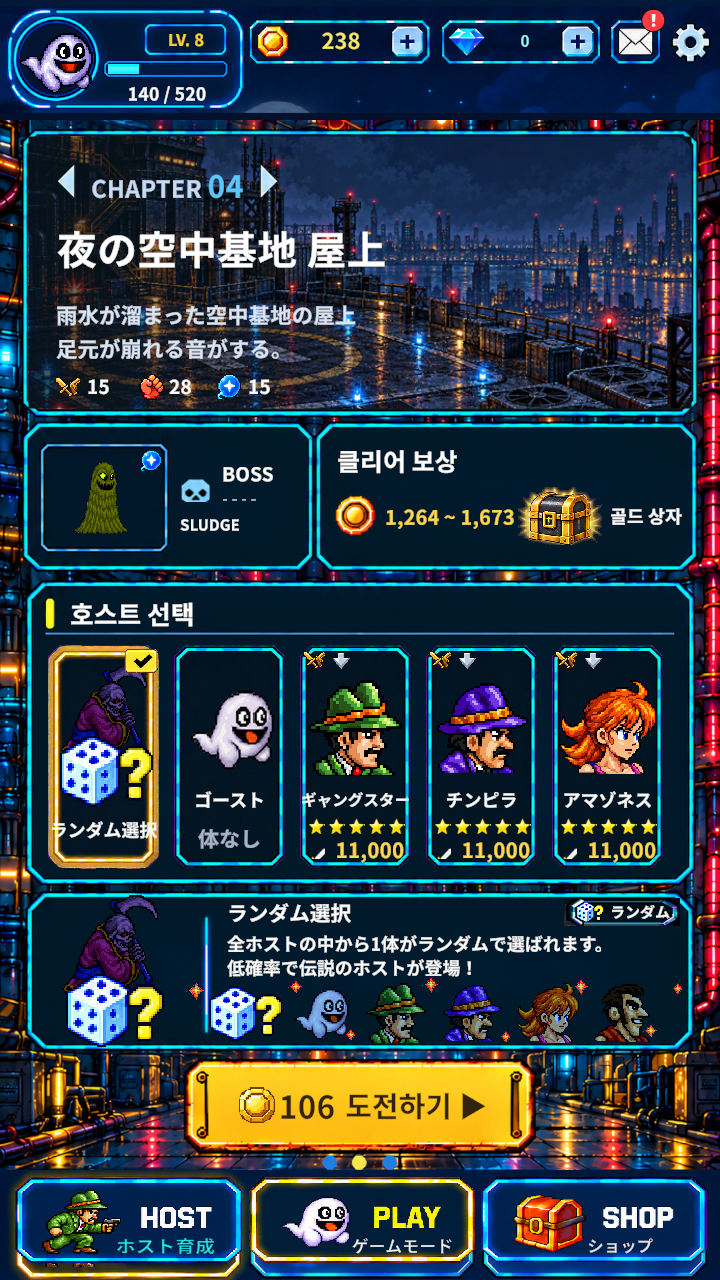
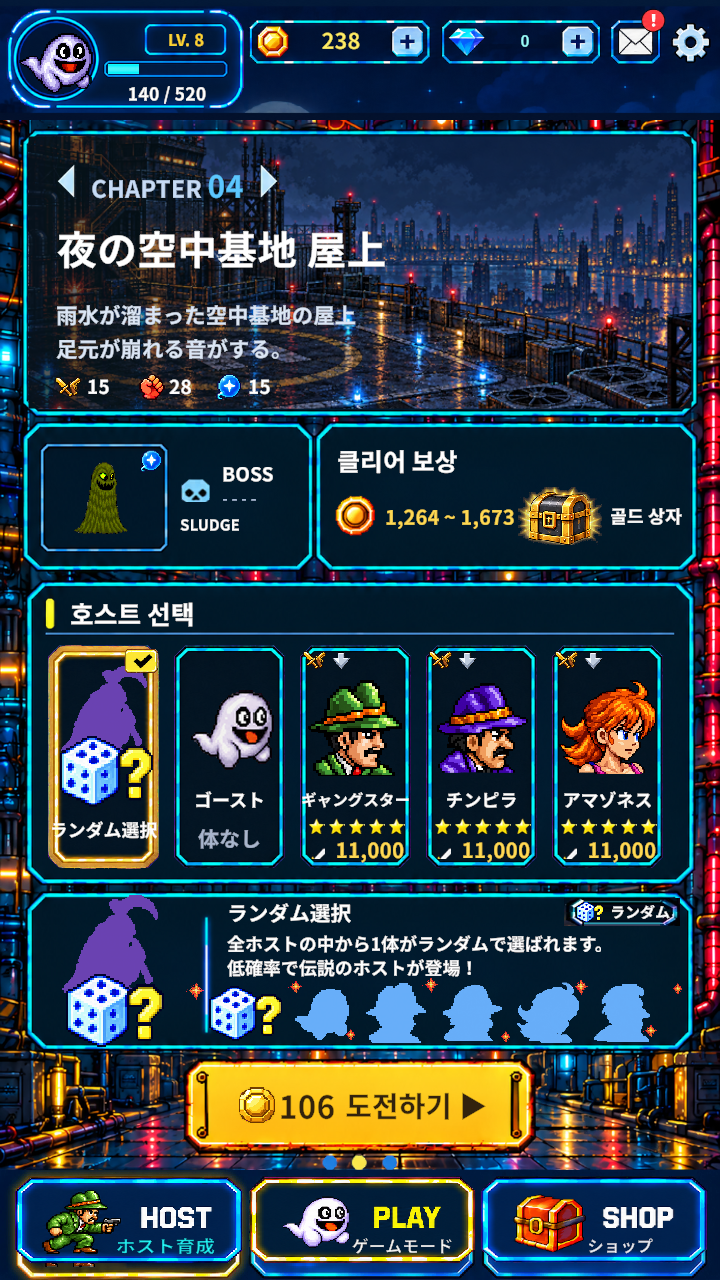
호스트 선택 — 가린 사신 · 실루엣 줄을 단색 실루엣으로(UI/Silhouette 재질, PD 2026-10-12 「음영을 깔지 말고 실루엣으로」)
색만 곱하면 안쪽 그림이 그대로 남았다 — 모양(알파)만 쓰고 색을 통째로 칠한다.
몸을 고르면 같은 칸이 원래 초상으로 돌아온다(재질을 그때 바꾼다).

diff --git a/Assets/Scripts/Editor/ChapterHostInfoBinder.cs b/Assets/Scripts/Editor/ChapterHostInfoBinder.cs
@@ -25,6 +25,19 @@ namespace Game.Editor
         // 카드 · 육성 화면과 같은 흉상(원작 그림). 작은 아이콘(64px)은 키우면 뭉개져 실루엣이 안 읽혔다
         private const string DeathPortrait = Portraits + "/portrait_death.png";
         private const string AdditiveMat = "Assets/BaseResource/Shaders/UIAdditiveSprite.mat";
+        private const string SilhouetteMat = "Assets/BaseResource/Shaders/UISilhouette.mat";
+
+        /// <summary>`UI/Silhouette` 재질 — 없으면 만든다. 그림의 모양만 쓰고 색은 Image.color 로 칠한다.</summary>
+        private static Material Silhouette()
+        {
+            var m = AssetDatabase.LoadAssetAtPath<Material>(SilhouetteMat);
+            if (m != null) return m;
+            var sh = Shader.Find("UI/Silhouette");
+            if (sh == null) { Debug.LogError("[챕터·호스트 설명] UI/Silhouette 셰이더 없음"); return null; }
+            m = new Material(sh) { name = "UISilhouette" };
+            AssetDatabase.CreateAsset(m, SilhouetteMat);
+            return m;
+        }
 
         [MenuItem("Tools/Game/챕터·호스트 — 「?」 카드 · 고른 카드 설명 칸 꽂기")]
         public static void Run()
@@ -124,13 +137,16 @@ namespace Game.Editor
             dice.preserveAspect = true;
             Local(dice.rectTransform, -200, 0, 78, 58);
 
-            var tint = new Color(0.55f, 0.78f, 1f, 0.95f);   // 푸른 빛 실루엣 — 원작 흉상에 색만 입힌다
+            // 푸른 단색 실루엣 — 원작 흉상의 모양만(음영 없이). 색만 곱하면 안쪽 그림이 그대로 남았다(PD 2026-10-12)
+            var tint = new Color(0.42f, 0.70f, 1f, 0.95f);
+            var sil = Silhouette();
             for (int i = 0; i < StripHosts.Length; i++)
             {
                 // 카드에 쓰는 흉상과 같은 그림(판의 _hostArts) — portrait_* 은 전신이라 작게 줄 서 보였다
                 var face = Img(strip, $"StripHost{i}", ThumbOf(panel, StripHosts[i]));
                 face.preserveAspect = true;
                 face.color = tint;
+                face.material = sil;
                 Local(face.rectTransform, -125 + i * 76, 0, 68, 64);
             }
             var stars = new (float x, float y, float s)[]
@@ -212,6 +228,7 @@ namespace Game.Editor
             if (comp == null) return;
             var so = new SerializedObject(comp);
             so.FindProperty("_randomDeath").objectReferenceValue = Spr(DeathPortrait);
+            so.FindProperty("_silhouette").objectReferenceValue = Silhouette();
             var arts = so.FindProperty("_hostArts");
             for (int i = 0; i < arts.arraySize; i++)
             {

diff --git a/Assets/Scripts/Module/Lobby/ChapterHostPanel.cs b/Assets/Scripts/Module/Lobby/ChapterHostPanel.cs
@@ -69,8 +69,14 @@ namespace Game.Module.Lobby
         /// </summary>
         [SerializeField] private Sprite _randomDeath;
 
-        /// <summary>가린 사신 색 — 어두운 남보라. 모양만 읽히고 정체는 안 보인다(「낮은 확률로 전설 등장」 암시).</summary>
-        private static readonly Color SilhouetteTint = new(0.40f, 0.30f, 0.62f, 1f);
+        /// <summary>
+        /// 실루엣 재질(`UI/Silhouette` — 그림의 모양만 쓰고 색은 통째로 갈아끼운다).
+        /// ⚠ 색만 곱하면(`Image.color`) 안쪽 음영이 그대로 남는다 — PD 2026-10-12 「음영을 깔지 말고 실루엣으로」.
+        /// </summary>
+        [SerializeField] private Material _silhouette;
+
+        /// <summary>가린 사신 실루엣 색 — 보라. 모양만 읽히고 정체는 안 보인다(「낮은 확률로 전설 등장」 암시).</summary>
+        private static readonly Color SilhouetteTint = new(0.42f, 0.26f, 0.70f, 1f);
 
         // 상성 시험판(2026-10-02) — 무기 · 파워 · 마법 아이콘(이 순서), 유리 ▲ · 불리 ▼
         [SerializeField] private Sprite[] _kindGems = Array.Empty<Sprite>();
@@ -609,6 +615,7 @@ namespace Game.Module.Lobby
             {
                 thumb.sprite = _randomDeath;
                 thumb.color = SilhouetteTint;
+                thumb.material = _silhouette;
                 thumb.enabled = thumb.sprite != null;
                 thumb.preserveAspect = true;
             }
@@ -648,6 +655,7 @@ namespace Game.Module.Lobby
             {
                 portrait.sprite = random ? _randomDeath : ArtOf(_pickedHost).Thumb;
                 portrait.color = random ? SilhouetteTint : Color.white;
+                portrait.material = random ? _silhouette : null;   // 몸을 고르면 원래 그림으로 돌아온다
                 portrait.enabled = portrait.sprite != null;
                 portrait.preserveAspect = true;
             }
